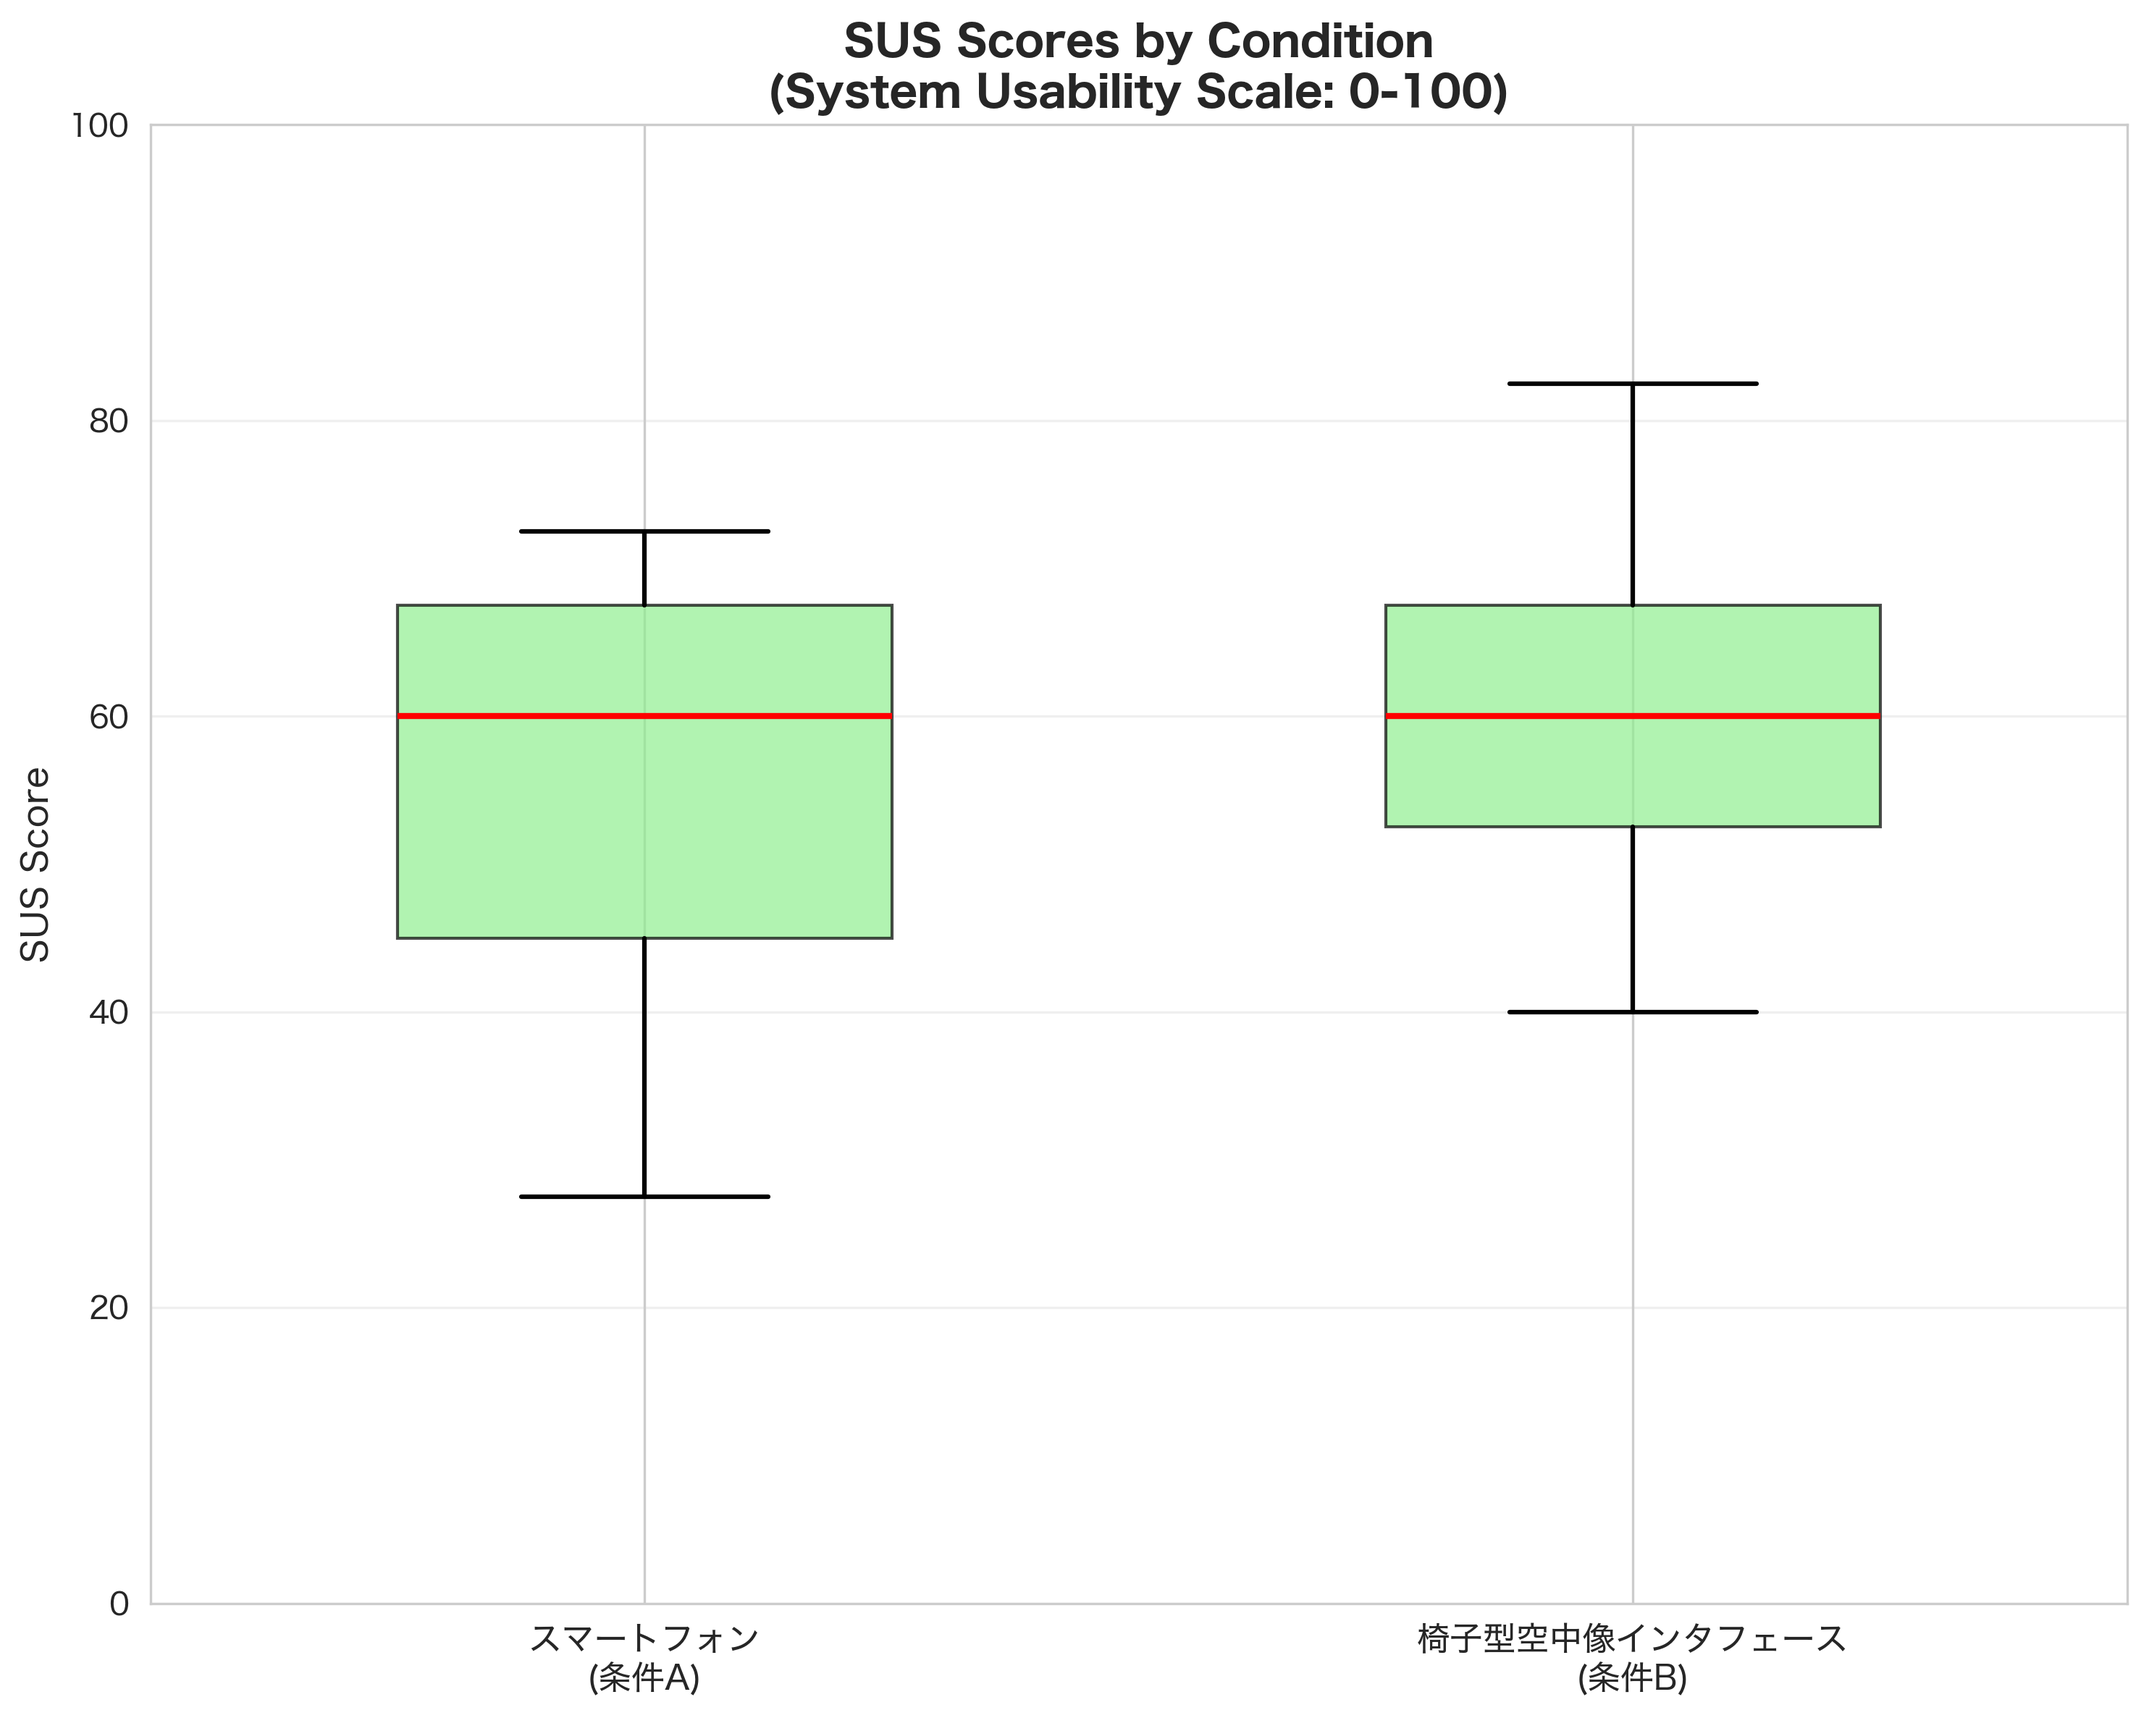
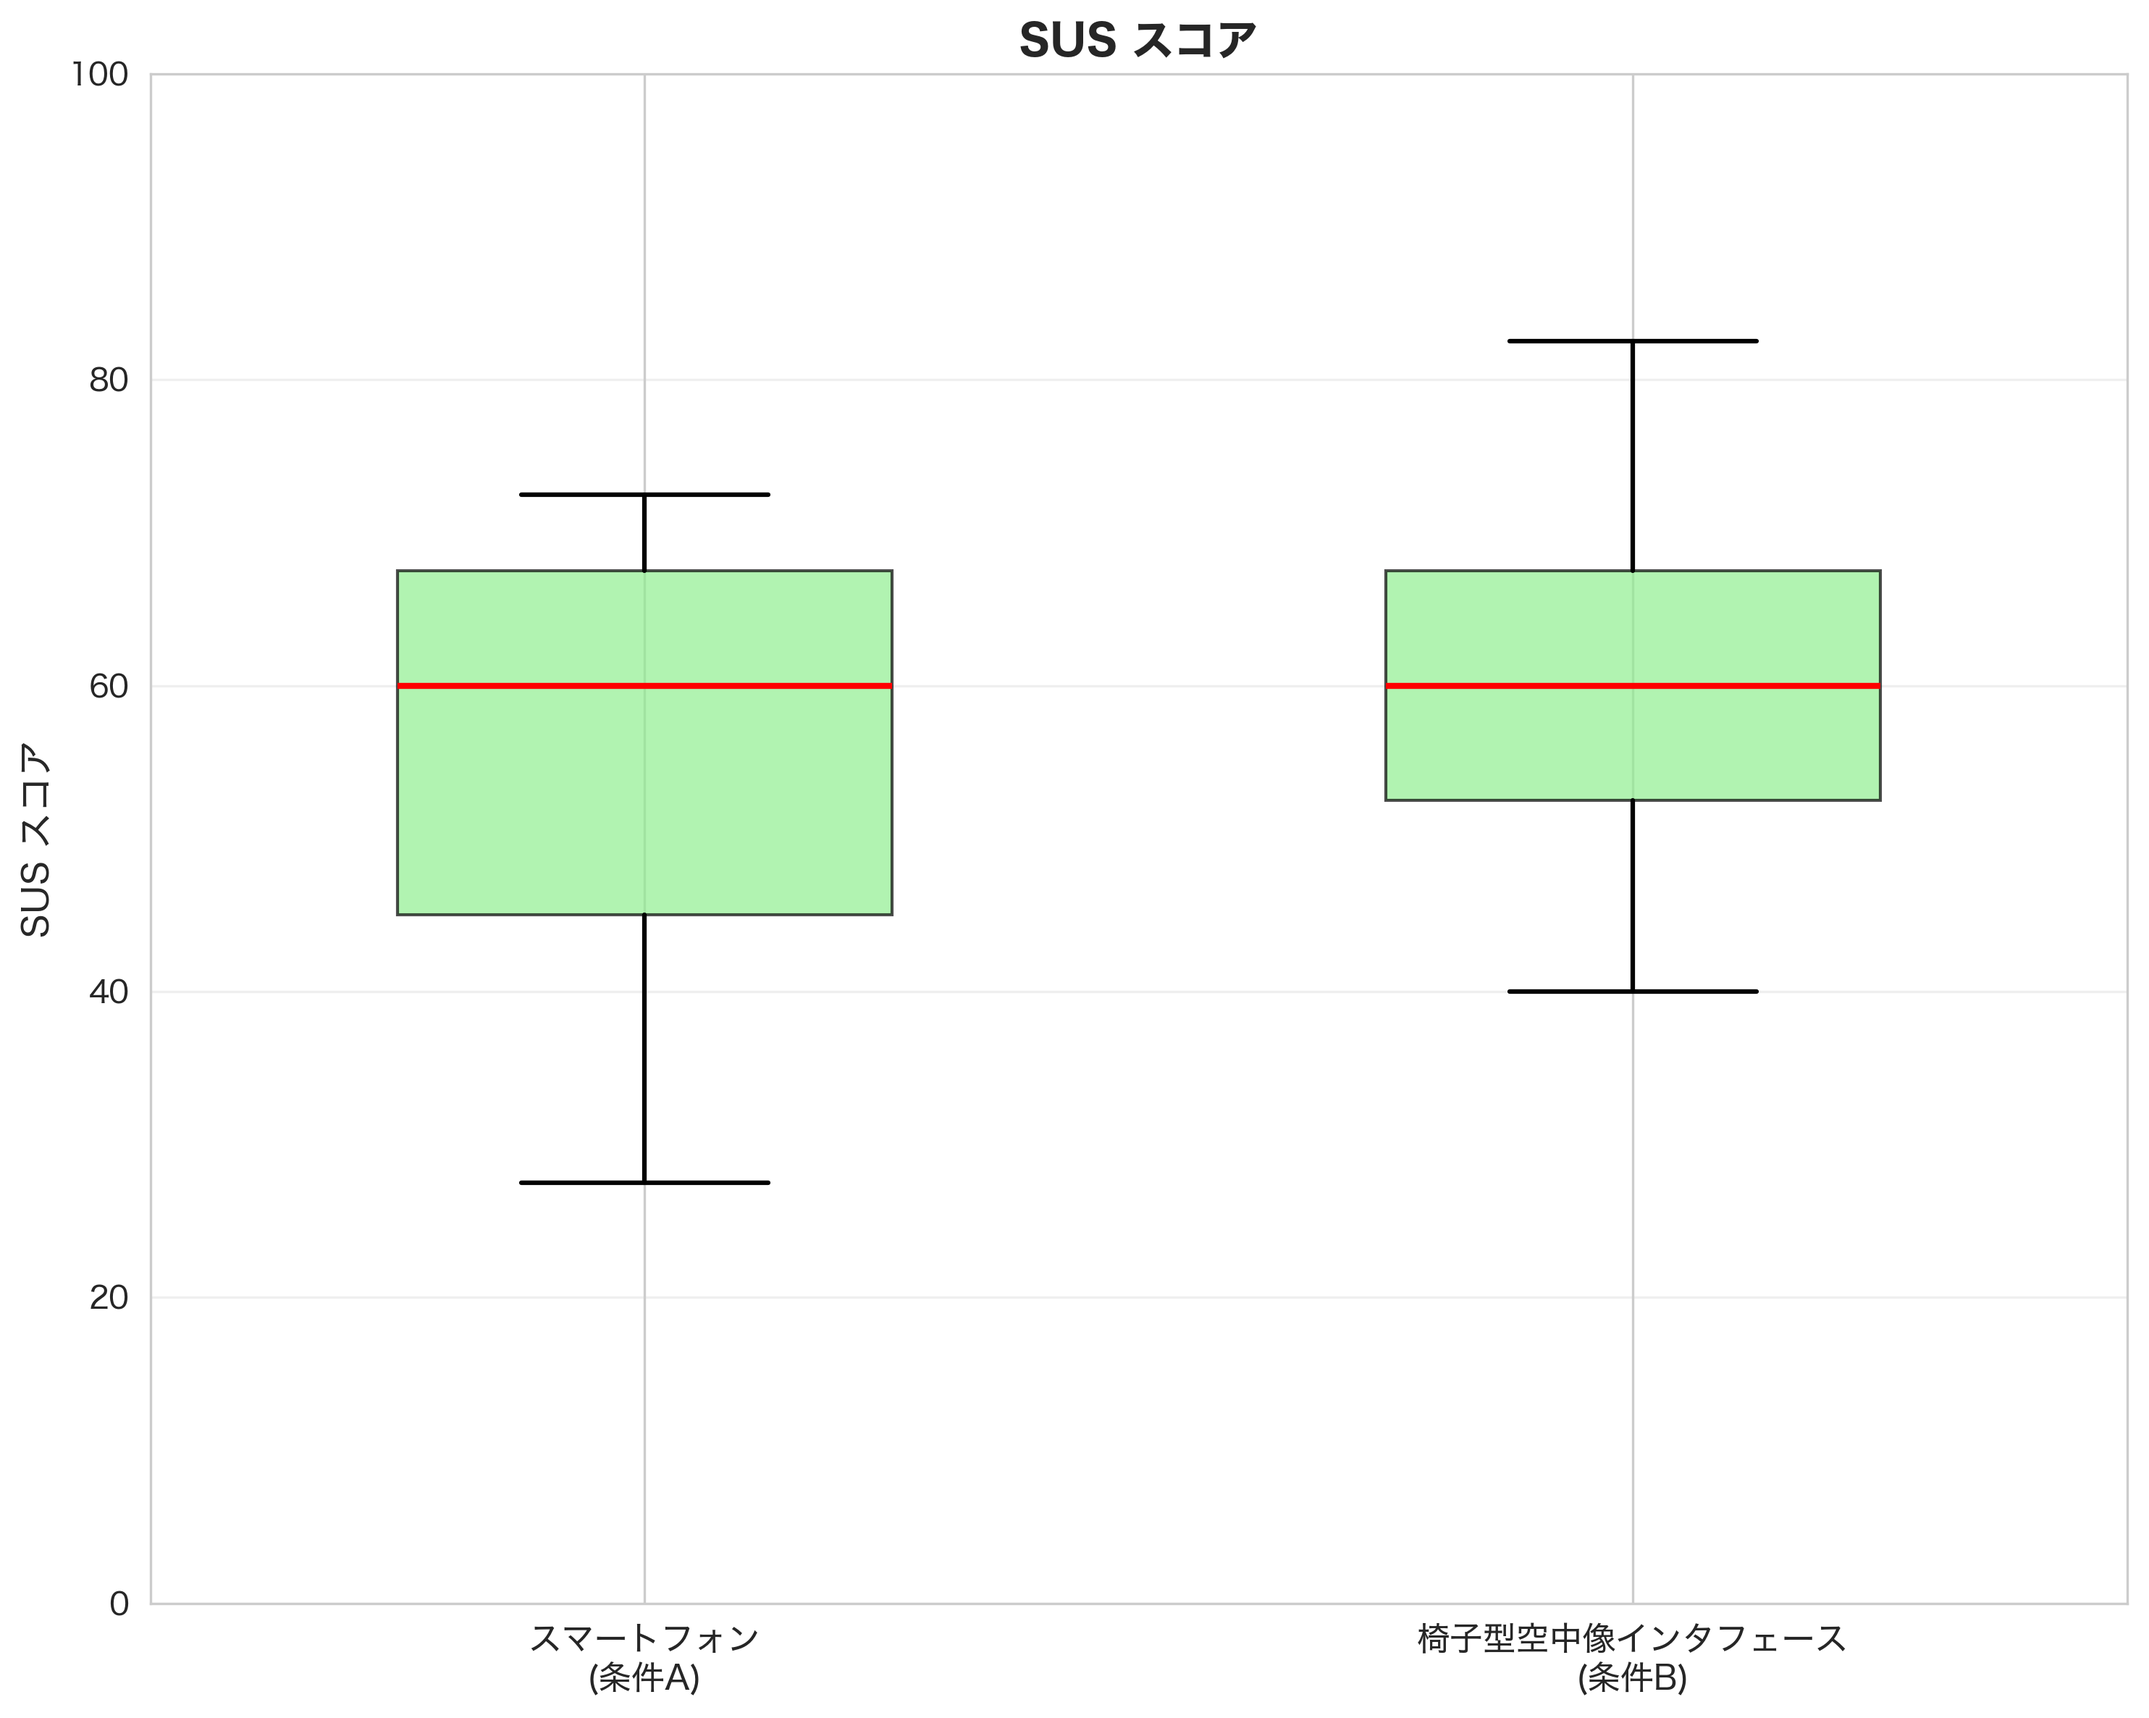
fix: マップ修正

diff --git a/project/src/analysis/main_experiment_analysis.py b/project/src/analysis/main_experiment_analysis.py
@@ -736,11 +736,19 @@ class MainExperimentAnalyzer:
             y_max = df_collapsed[dv].max()
             add_significance_brackets(ax, p_value, 0, 1, y_max)
 
-        ax.set_title(f'Condition Comparison\n{dv}', fontsize=12, fontweight='bold')
-        ax.set_xlabel('Condition', fontsize=11)
-        ax.set_ylabel(dv.replace('_', ' ').title(), fontsize=11)
+        title_map = {
+            'total_duration_sec': 'タスク遂行時間',
+            'face_gaze_duration_sec': '顔注視時間',
+        }
+        ylabel_map = {
+            'total_duration_sec': 'タスク遂行時間（秒）',
+            'face_gaze_duration_sec': '顔注視時間（秒）',
+        }
+        ax.set_title(title_map.get(dv, dv.replace('_', ' ').title()), fontsize=12, fontweight='bold')
+        ax.set_xlabel('')
+        ax.set_ylabel(ylabel_map.get(dv, dv.replace('_', ' ').title()), fontsize=11)
         ax.set_xticks([0, 1])
-        ax.set_xticklabels(['スマートフォン\n(条件a)', '椅子型空中像インタフェース\n(条件b)'], fontsize=11)
+        ax.set_xticklabels(['スマートフォン\n(条件A)', '椅子型空中像インタフェース\n(条件B)'], fontsize=11)
         ax.grid(True, alpha=0.3, axis='y')
 
         plt.tight_layout()

diff --git a/project/src/analysis/nasatlx_main_experiment_analysis.py b/project/src/analysis/nasatlx_main_experiment_analysis.py
@@ -561,11 +561,11 @@ class NASATLXAnalyzer:
         sns.boxplot(data=self.df_long, x='condition', y='total_score', ax=ax, palette='Set2')
         sns.stripplot(data=self.df_long, x='condition', y='total_score', ax=ax,
                      color='black', alpha=0.5, jitter=True, size=8)
-        ax.set_title('NASA-TLX Total Score by Condition', fontsize=12, fontweight='bold')
-        ax.set_xlabel('Condition', fontsize=11)
-        ax.set_ylabel('NASA-TLX Total Score (0-100, lower is better)', fontsize=11)
+        ax.set_title('NASA-TLX スコア', fontsize=12, fontweight='bold')
+        ax.set_xlabel('')
+        ax.set_ylabel('NASA-TLX スコア', fontsize=11)
         ax.set_xticks([0, 1])
-        ax.set_xticklabels(['スマートフォン\n(条件a)', '椅子型空中像インタフェース\n(条件b)'], fontsize=11)
+        ax.set_xticklabels(['スマートフォン\n(条件A)', '椅子型空中像インタフェース\n(条件B)'], fontsize=11)
         ax.set_ylim(0, 100)
         ax.grid(True, alpha=0.3, axis='y')
 

diff --git a/project/src/analysis/map_sabun_analysis.py b/project/src/analysis/map_sabun_analysis.py
@@ -347,10 +347,9 @@ class MapSabunAnalyzer:
         sns.stripplot(data=df_long, x='condition', y='map_sabun', ax=ax,
                      color='black', alpha=0.5, jitter=True, size=8)
 
-        ax.set_title('Map Sabun Comparison\n(Condition A vs Condition B)',
-                    fontsize=12, fontweight='bold')
-        ax.set_xlabel('Condition', fontsize=11)
-        ax.set_ylabel('Map Sabun (Deviation)', fontsize=11)
+        ax.set_title('マップ逸脱スコア', fontsize=12, fontweight='bold')
+        ax.set_xlabel('')
+        ax.set_ylabel('マップ逸脱スコア', fontsize=11)
         ax.set_xticklabels(['スマートフォン\n(条件A)', '椅子型空中像インタフェース\n(条件B)'],
                           fontsize=11)
         ax.grid(True, alpha=0.3, axis='y')

diff --git a/project/src/analysis/questionnaire_analysis.py b/project/src/analysis/questionnaire_analysis.py
@@ -765,11 +765,10 @@ class QuestionnaireAnalyzer:
         add_significance_brackets(ax, p_value, 0, 1, y_max, height_increment=5)
 
         # Labels and formatting
-        ax.set_title('SUS Scores by Condition\n(System Usability Scale: 0-100)',
-                    fontsize=14, fontweight='bold')
+        ax.set_title('SUS スコア', fontsize=14, fontweight='bold')
         ax.set_xticks([0, 1])
         ax.set_xticklabels(['スマートフォン\n(条件A)', '椅子型空中像インタフェース\n(条件B)'], fontsize=11)
-        ax.set_ylabel('SUS Score', fontsize=12)
+        ax.set_ylabel('SUS スコア', fontsize=12)
         ax.set_ylim(0, 100)
         # ax.legend(loc='upper left')  # Legend removed since no benchmark lines
         ax.grid(True, alpha=0.3, axis='y')

diff --git a/project/src/analysis/communication_count_analysis.py b/project/src/analysis/communication_count_analysis.py
@@ -342,8 +342,8 @@ class CommunicationCountAnalyzer:
                 size=8,
             )
 
-            ax.set_title(f"{metric_label}\n(条件A vs 条件B)", fontsize=12, fontweight="bold")
-            ax.set_xlabel("条件", fontsize=11)
+            ax.set_title(f"{metric_label}", fontsize=12, fontweight="bold")
+            ax.set_xlabel("")
             ax.set_ylabel("回数", fontsize=11)
             ax.set_xticklabels(
                 ["スマートフォン\n(条件A)", "椅子型空中像インタフェース\n(条件B)"], fontsize=11

diff --git a/project/output/main_expt_questionnaire_results/analysis_report.md b/project/output/main_expt_questionnaire_results/analysis_report.md
@@ -7,7 +7,7 @@
 - **Questionnaire Components**:
   - 6 Likert scale items (7-point scale): Task/translation evaluation
   - 10 SUS questions (5-point scale): System usability
-- **Analysis Date**: 2026-02-04 09:44:41
+- **Analysis Date**: 2026-02-09 18:55:38
 
 ## Part 1: Task/Translation Evaluation (Likert Scale)
 
@@ -209,4 +209,4 @@ No significant difference in usability between conditions was found. Both condit
 - No significant difference in overall system usability (p = 0.5295)
 
 ---
-Generated by questionnaire_analysis.py on 2026-02-04 09:44:41
+Generated by questionnaire_analysis.py on 2026-02-09 18:55:38

diff --git a/project/output/nasa-tlx/analysis_results/analysis_report.md b/project/output/nasa-tlx/analysis_results/analysis_report.md
@@ -5,7 +5,7 @@
 - **実験デザイン**: 2条件被験者内（condition: a, b）
 - **参加者数**: 13名
 - **評価指標**: NASA-TLX Total Score (0-100, 低い方が良い)
-- **分析実行日**: 2026-02-04 09:52:53
+- **分析実行日**: 2026-02-09 19:01:34
 
 ## カウンターバランシング
 
@@ -110,4 +110,4 @@ python project/src/analysis/nasatlx_main_experiment_analysis.py
 ```
 
 ---
-Generated by nasatlx_main_experiment_analysis.py on 2026-02-04 09:52:53
+Generated by nasatlx_main_experiment_analysis.py on 2026-02-09 19:01:34

diff --git a/project/output/csv/main/analysis_results/analysis_report.md b/project/output/csv/main/analysis_results/analysis_report.md
@@ -6,7 +6,7 @@
 - **参加者数**: 13名
 - **従属変数**: total_duration_sec, face_gaze_duration_sec
 - **データ収集日**: 20251223_140933 〜 20251226_160150
-- **分析実行日**: 2026-02-04 11:57:53
+- **分析実行日**: 2026-02-09 18:53:54
 
 ## カウンターバランシング
 
@@ -185,4 +185,4 @@ python project/src/analysis/main_experiment_analysis.py
 ```
 
 ---
-Generated by main_experiment_analysis.py on 2026-02-04 11:57:53
+Generated by main_experiment_analysis.py on 2026-02-09 18:53:54

diff --git a/project/output/communication_count_analysis_report.md b/project/output/communication_count_analysis_report.md
@@ -7,7 +7,7 @@
 - **指標**:
   - 質問・確認回数
   - 頷き回数
-- **分析日時**: 2026-02-09 11:38:31
+- **分析日時**: 2026-02-09 18:53:16
 
 ## 質問・確認回数
 
